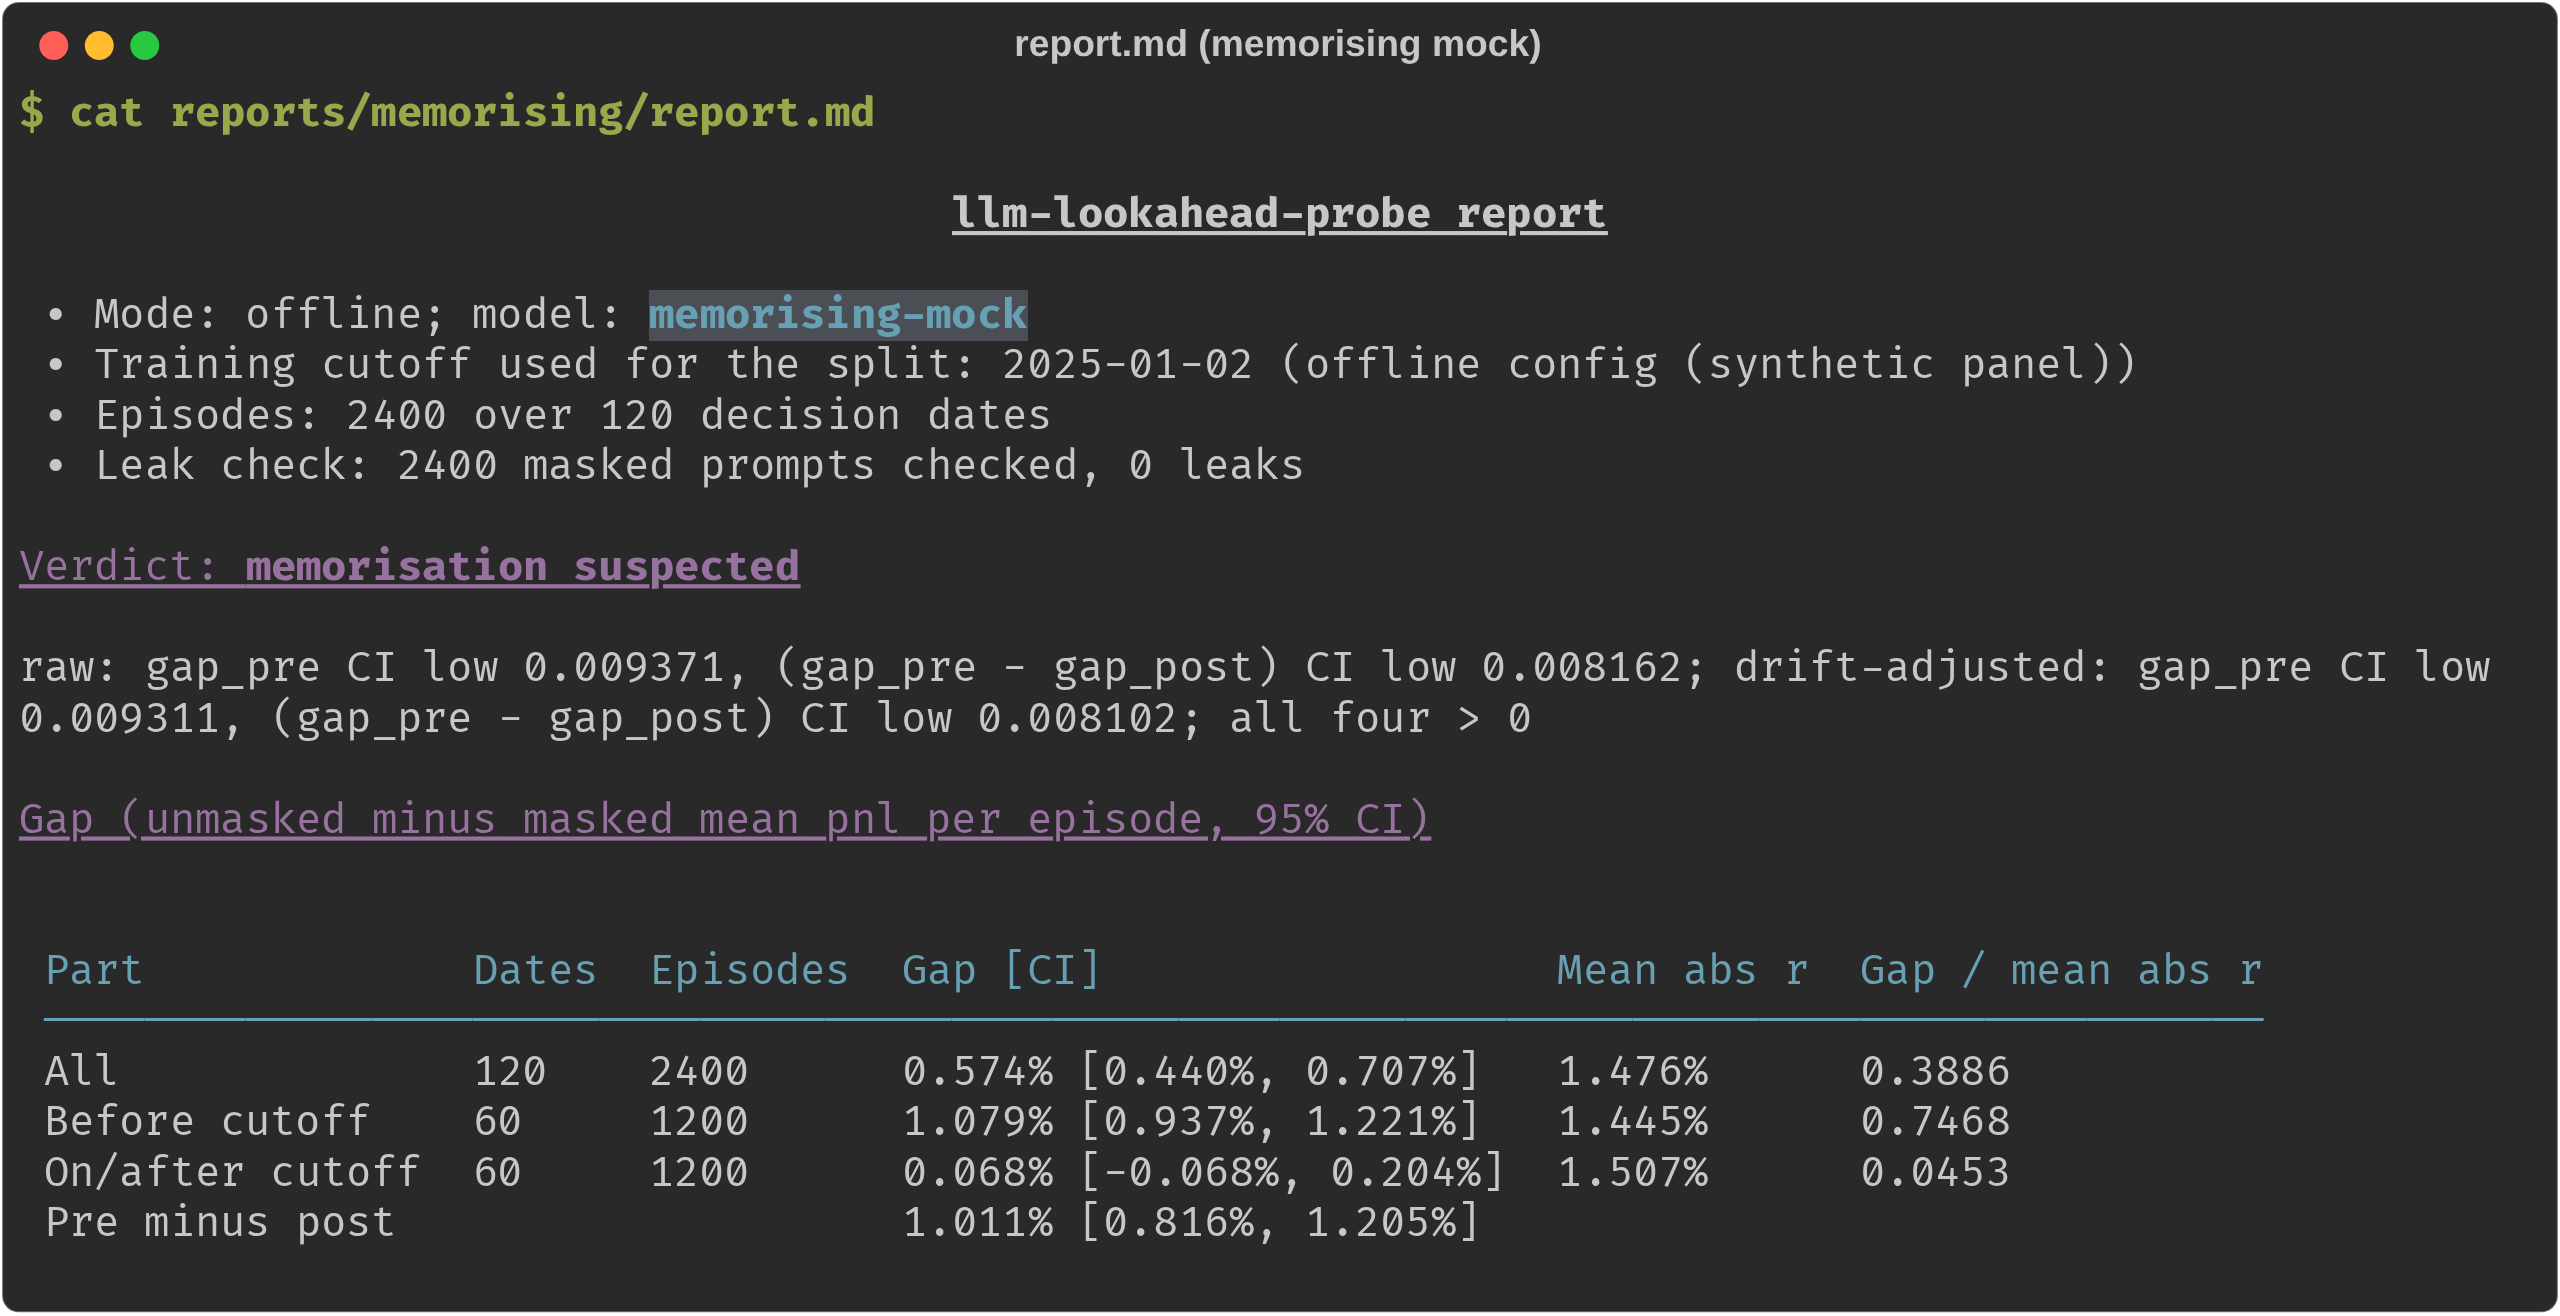
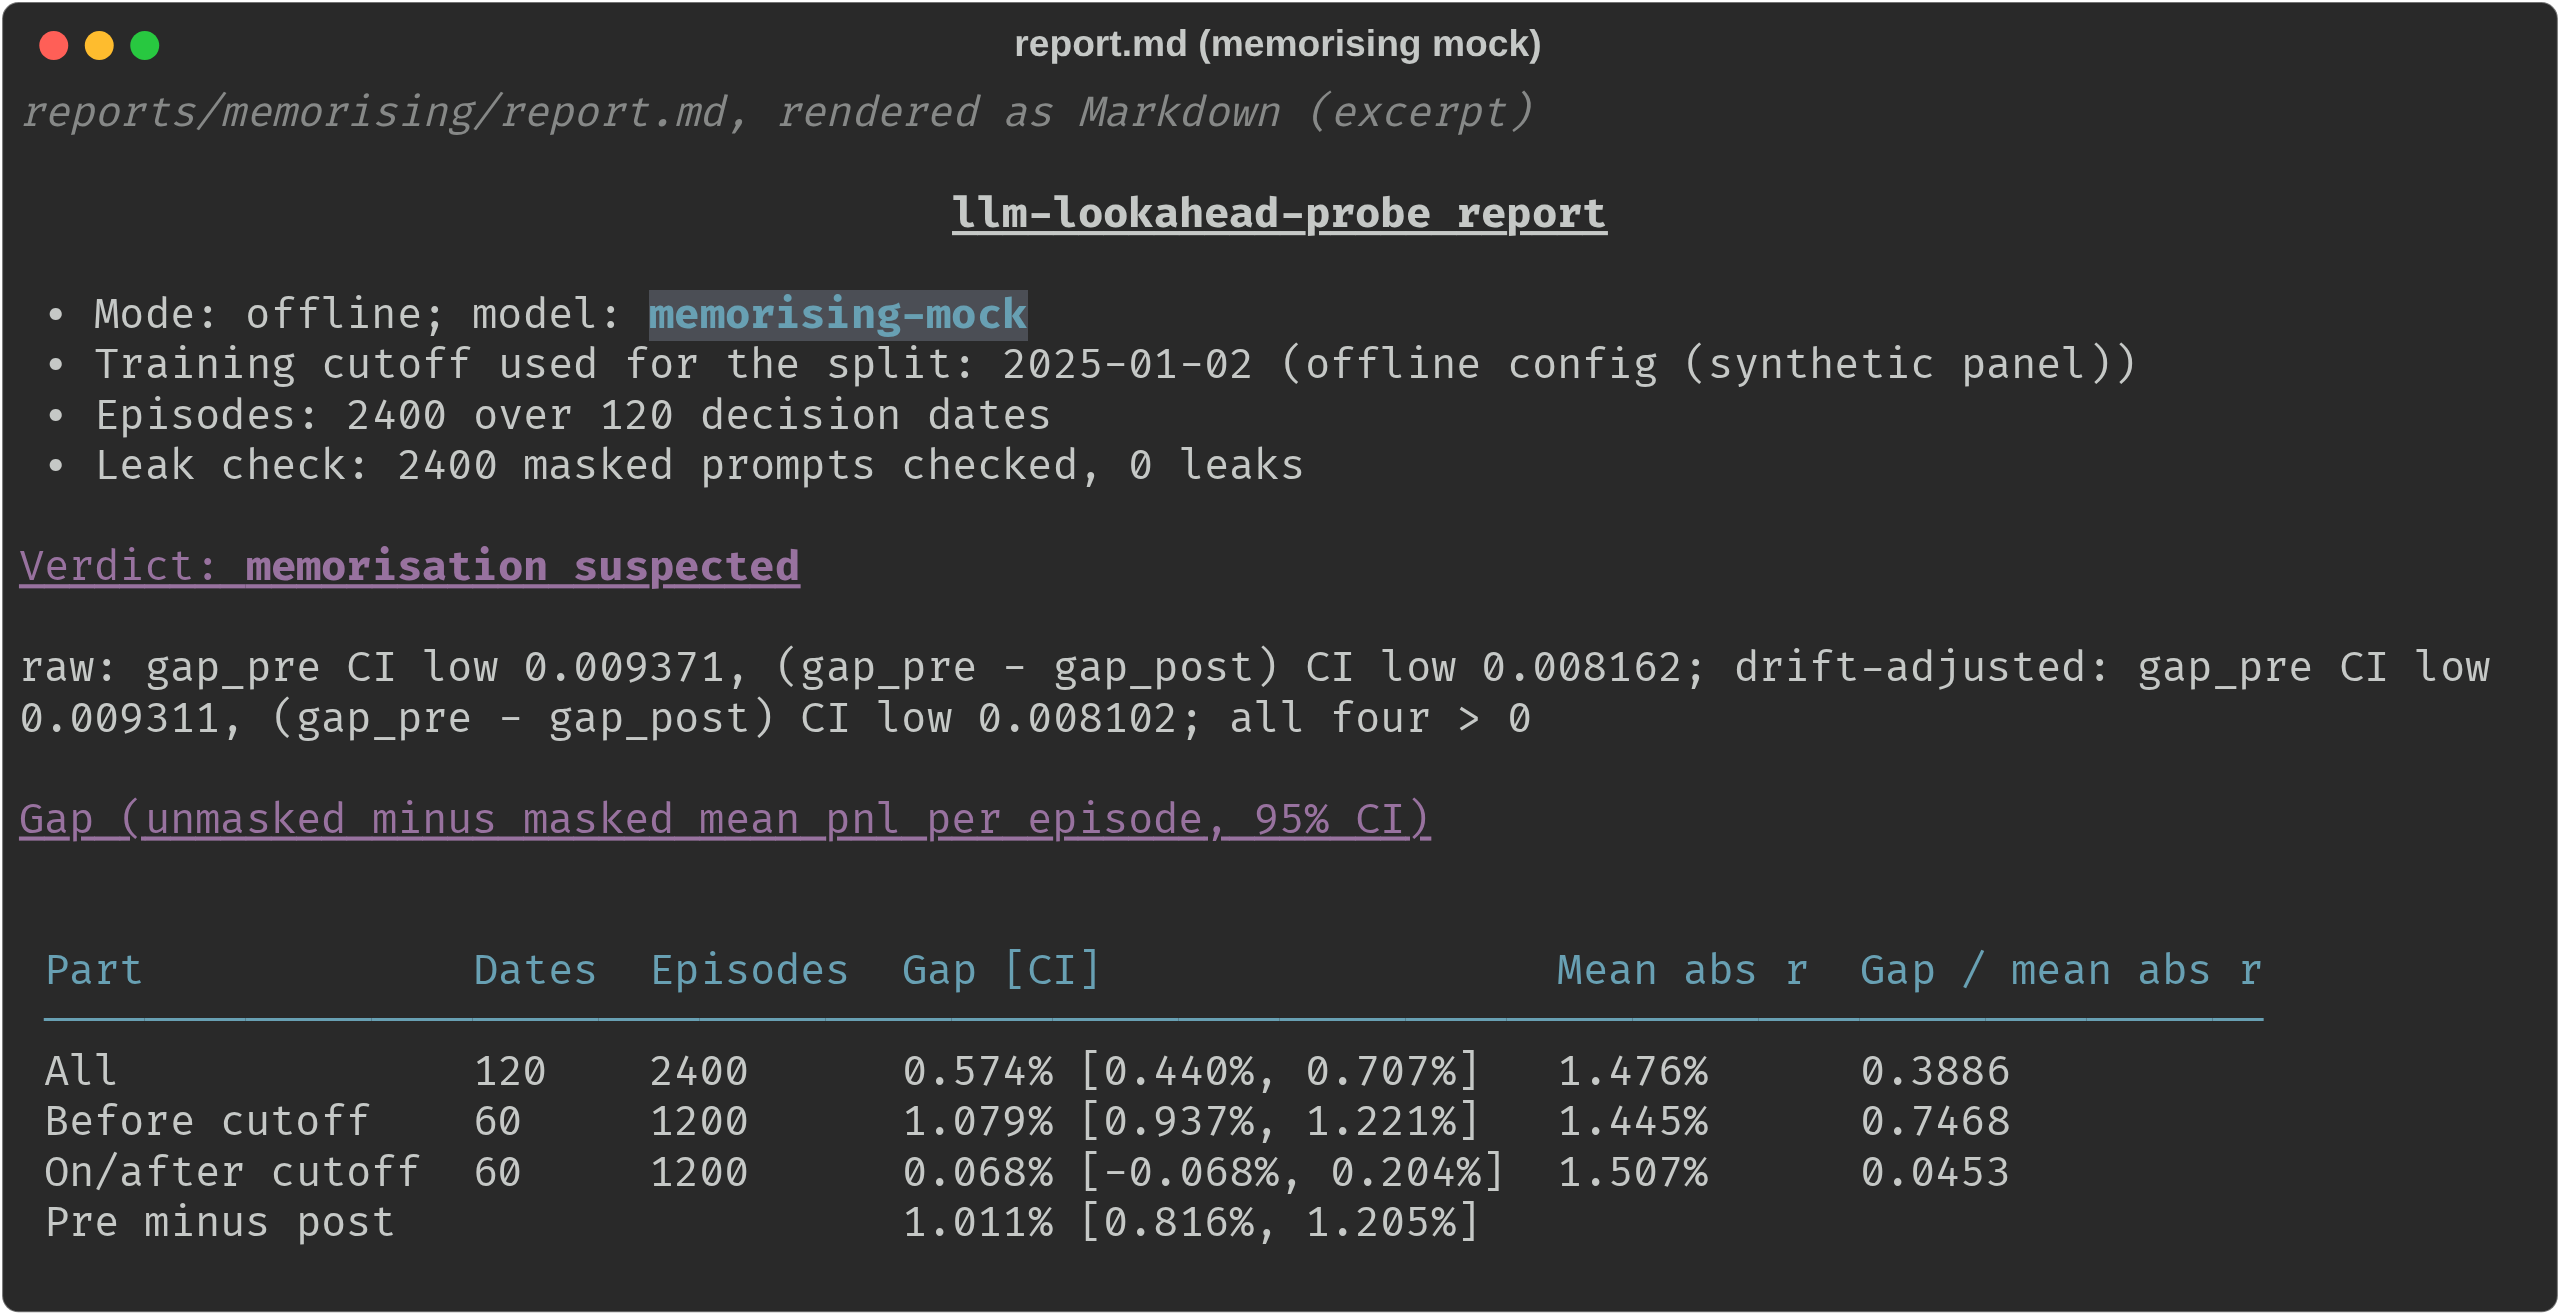
Label report screenshots as rendered excerpts, not cat output
Images 03 and 04 showed '$ cat reports/memorising/report.md', but the
content is report.md rendered with rich and trimmed to the relevant
sections; cat would print raw Markdown. The prompt line is replaced by
a caption saying what the image is.

Changed region(s): [[0.0, 0.0623, 0.5, 0.1246], [0.5312, 0.0623, 0.5938, 0.0935]]

diff --git a/scripts/screenshots.py b/scripts/screenshots.py
@@ -103,7 +103,8 @@ def markdown_capture(title_cmd: str, parts: list[str], width: int = WIDTH) -> Co
     console = Console(
         record=True, width=width, file=io.StringIO(), force_terminal=True, color_system="truecolor"
     )
-    console.print(Text("$ ", style="bold green") + Text(title_cmd, style="bold"))
+    # Not a shell command: the image is a rendered excerpt, so label it as one.
+    console.print(Text(title_cmd, style="dim italic"))
     for part in parts:
         console.print()
         console.print(Markdown(part))
@@ -190,7 +191,7 @@ def main() -> int:
     md = (DEMO / "reports" / "memorising" / "report.md").read_text()
     captures.append(md)
     secs = sections(md)
-    cmd = "cat reports/memorising/report.md"
+    cmd = "reports/memorising/report.md, rendered as Markdown (excerpt)"
     verdict = drop_lines(pick(secs, "Verdict"), ("Rule:",)).replace("\n\n\n", "\n\n")
     gap = pick(secs, "Gap")
     svgs["03-report-memorising"] = save_svg(
